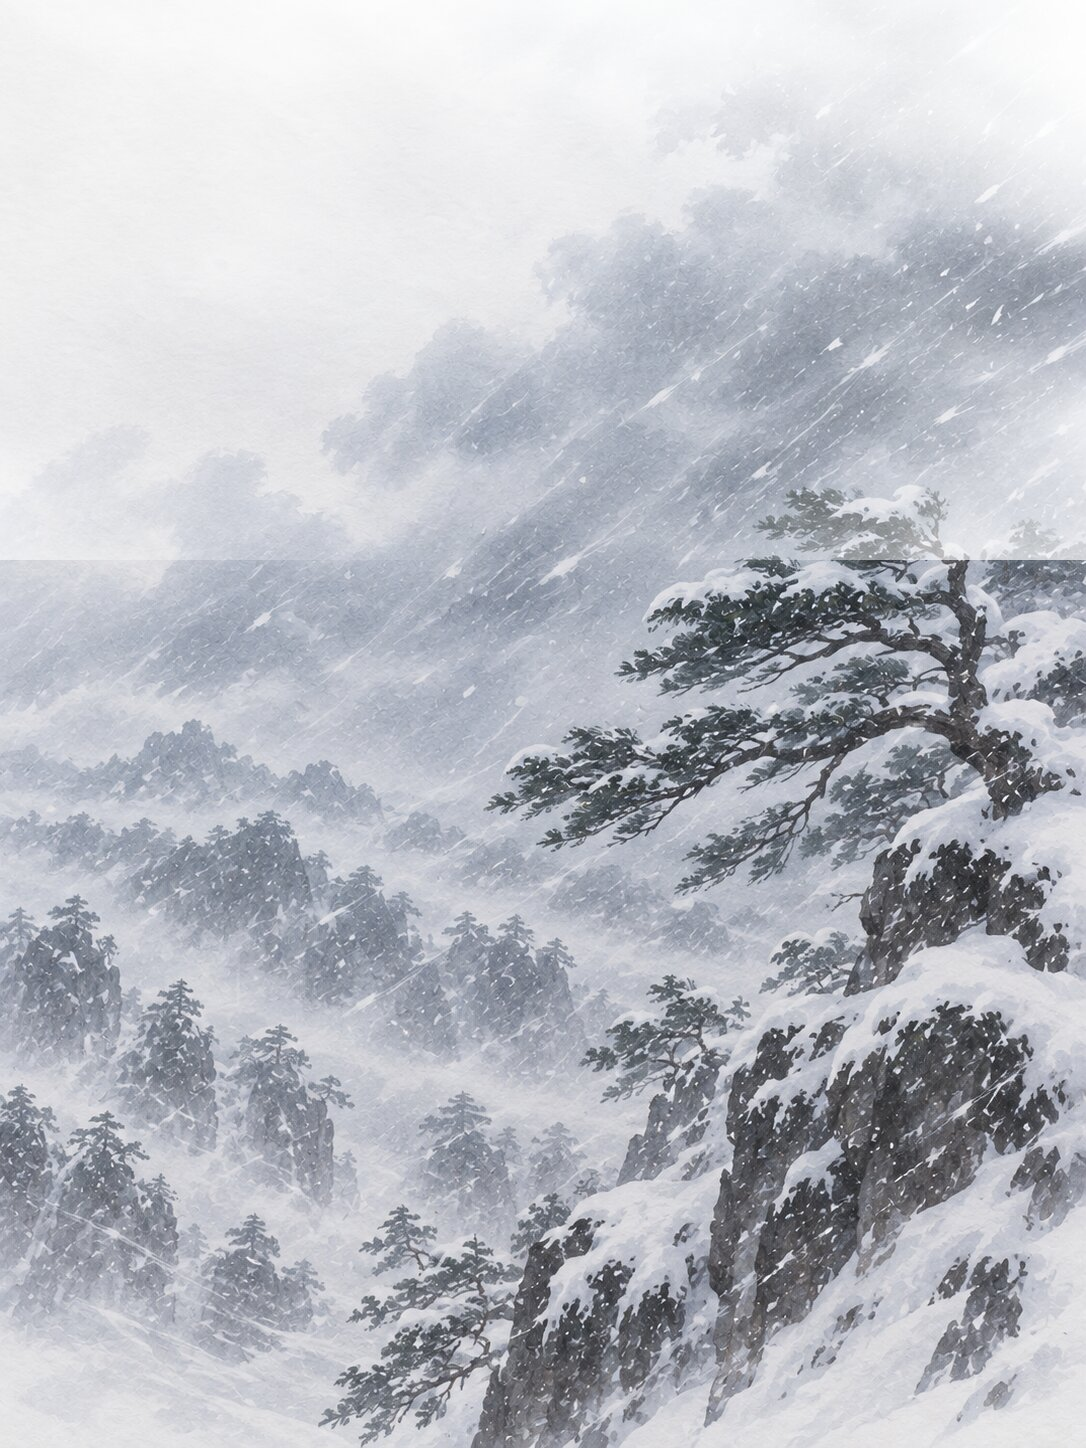
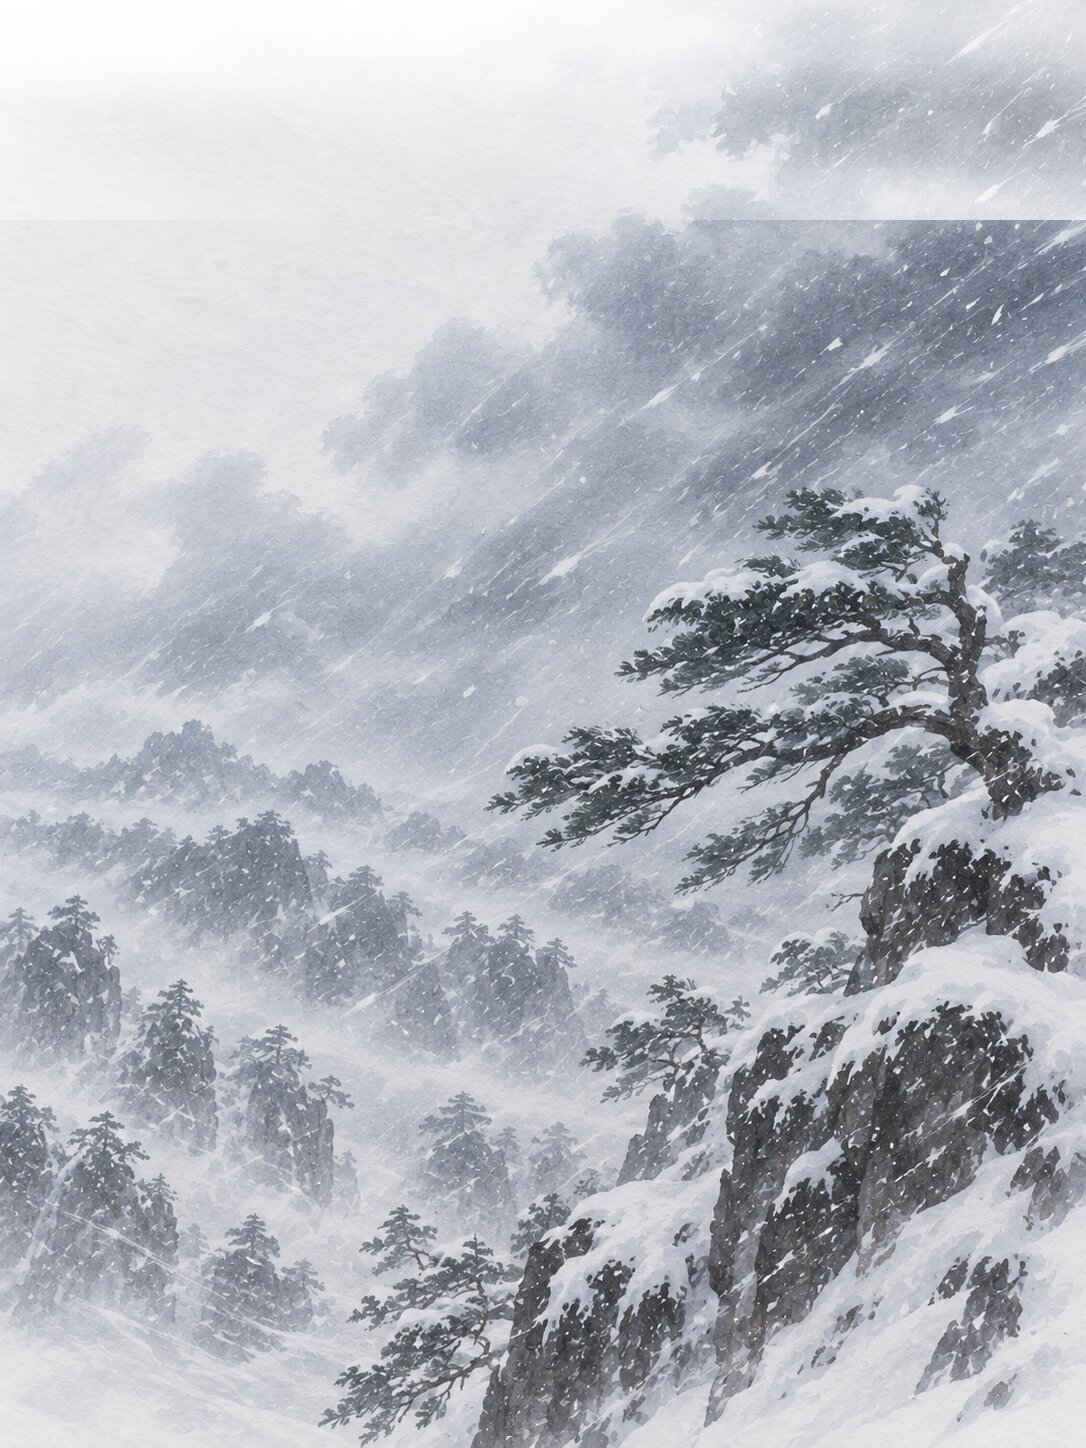
fix(weather): 整屏常驻刷新波形, 消掉插画块被单独闪刷造成的撕裂边
实机照片显示: 进出应用时只有插画那一块整块闪黑重刷, 四周走另一种波形,
交界处被刷成一道硬边。根子不在图片边缘柔不柔 (直边/毛边/模糊都试过无效),
而是屏幕把彩色照片与周围白底文字分到了不同波形区, 那条边就是波形区的边界。
办法: 整屏挂常驻 ScreenModeItem (Animation), 全屏同一波形就没有交界。
几何零变化, 避免模式图每变一次就整屏重合成。

同时按要求把插画放回内容区内 (不再出血到屏幕边缘), 洇开高度收回 220px,
素材自带的左上留白重新露出来给温度用。

Claude-Session: https://claude.ai/code/session_019KkUnkcqwS2UZFWyZzTLYV

Changed region(s): [[0.547, 0.0, 1.0, 0.404], [0.0, 0.3419, 0.0304, 0.404], [0.6381, 0.1554, 0.6685, 0.1865]]

diff --git a/space/apps/weather/main.qml b/space/apps/weather/main.qml
@@ -16,6 +16,26 @@ Item {
     function f(n) { return Math.round(n * root.fs) }
     function u(n) { return Math.round(n * root.un) }
 
+    // ── 整屏常驻一个刷新波形标记 ──────────────────────────────────────────
+    // 症状: 进出本应用时, 只有插画那一块被整块闪黑重刷, 四周 (顶栏/速览/标签栏)
+    // 走的是另一种波形, 于是两者交界处被刷出一道撕裂的硬边。
+    // 原因不在图片边缘做得够不够柔 (直边、毛边、模糊都试过), 而在于屏幕把这块
+    // 彩色照片和周围的白底文字分给了不同的刷新波形, 边界就是波形区的边界。
+    // 办法: 整屏挂一个常驻 ScreenModeItem, 全屏同一种波形, 就没有交界可撕。
+    // 几何必须零变化 (anchors.fill 根节点), 模式图每变一次几何就整屏重新合成。
+    // 固件若没有这个类型 (非原厂 libqsgepaper), try/catch 静默降级。
+    property var _screenMode: null
+    Component.onCompleted: {
+        try {
+            _screenMode = Qt.createQmlObject(
+                'import QtQuick; import xofm.libs.epaper; ' +
+                'ScreenModeItem { anchors.fill: parent; mode: ScreenModeItem.Animation }',
+                root, "weatherScreenMode")
+        } catch (e) {
+            console.warn("[weather] ScreenModeItem 不可用, 沿用默认刷新: " + e)
+        }
+    }
+
     // 墨水屏没有背光, 浅色底要靠抖动铺, 看起来就发灰。一律纯白, 层次交给描边。
     readonly property color paper: "#FFFFFF"
     readonly property color card: "#FFFFFF"
@@ -106,7 +126,6 @@ Item {
     // ═══ 顶栏 ═══
     Item {
         id: header
-        z: 1
         anchors.top: parent.top; anchors.left: parent.left; anchors.right: parent.right
         height: root.u(190)
 
@@ -189,13 +208,10 @@ Item {
             anchors.fill: parent
 
             // 插画: 从内容区顶部一直铺到速览行, 顶部对齐 (画的上半是天, 正好垫文字)
-            // 插画出血到屏幕上沿与左右两侧: 页面内不留插画的边,
-            // 墨水屏整屏闪黑刷新时就不会在那条边上撕开。
             Item {
                 id: sceneBox
-                anchors.top: parent.top; anchors.topMargin: -header.height
-                anchors.left: parent.left; anchors.leftMargin: -root.u(28)
-                anchors.right: parent.right; anchors.rightMargin: -root.u(28)
+                anchors.top: parent.top
+                anchors.left: parent.left; anchors.right: parent.right
                 anchors.bottom: statRow.top; anchors.bottomMargin: root.u(14)
                 clip: true
                 Image {
@@ -229,7 +245,7 @@ Item {
 
             // 温度 + 大天气图标: 压在插画的天空部分上
             RowLayout {
-                anchors.top: parent.top; anchors.topMargin: root.u(16)
+                anchors.top: sceneBox.top; anchors.topMargin: root.u(16)
                 anchors.left: parent.left; anchors.right: parent.right
                 ColumnLayout {
                     spacing: 2
